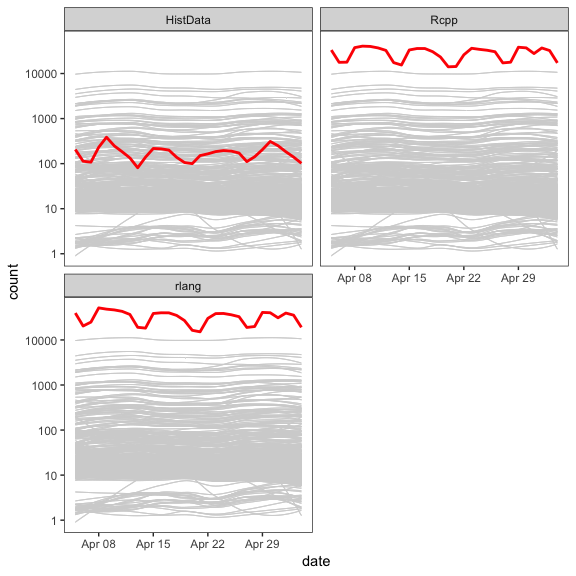
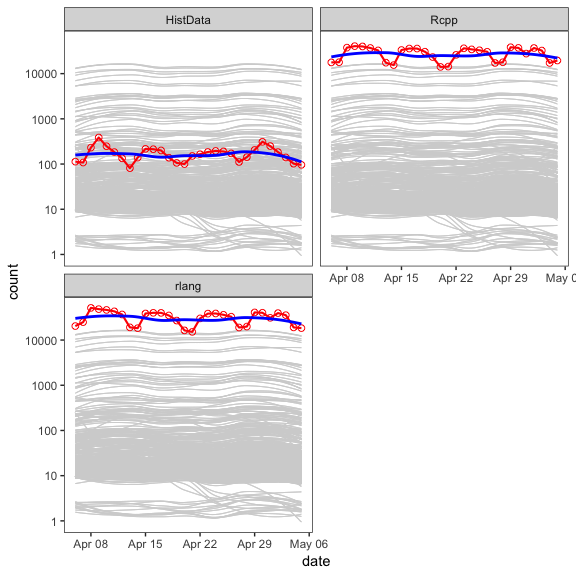
switch from cohort to simple stratified sample in packageRankTime()

diff --git a/README.md b/README.md
@@ -1,7 +1,7 @@
 
 <!-- README.md is generated from README.Rmd. Please edit that file -->
 
-[![GitHub\_Status\_Badge](https://img.shields.io/badge/GitHub-0.0.9046-red.svg)](https://github.com/lindbrook/packageRank/blob/master/NEWS)
+[![GitHub\_Status\_Badge](https://img.shields.io/badge/GitHub-0.0.9047-red.svg)](https://github.com/lindbrook/packageRank/blob/master/NEWS)
 
 ## packageRank: compute and visualize package download counts and percentiles
 
@@ -113,12 +113,12 @@ pkg.rank <- packageRank(package = "HistData", date = "2019-01-01")
 downloads <- pkg.rank$crosstab
 
 downloads[downloads == 51]
-> 
->  dynamicTreeCut        HistData          kimisc  NeuralNetTools 
->              51              51              51              51 
->   OpenStreetMap       pkgKitten plotlyGeoAssets            spls 
->              51              51              51              51 
->        webutils            zoom 
+>
+>  dynamicTreeCut        HistData          kimisc  NeuralNetTools
+>              51              51              51              51
+>   OpenStreetMap       pkgKitten plotlyGeoAssets            spls
+>              51              51              51              51
+>        webutils            zoom
 >              51              51
 ```
 
@@ -192,10 +192,10 @@ plot(packageRankTime(package = "HistData", when = "last-month"),
 <img src="man/figures/README-plot_ts-1.png" style="display: block; margin: auto auto auto 0;" />
 
 The longitudinal view plots the date (x-axis) against the logarithm of a
-package’s downloads (y-axis). In the background, we can see same data,
-plotted in gray, for a cohort of packages defined by a stratified random
-sample of packages.\[2\] This cohort is used to approximate the overall
-temporal pattern of package downloads in the selected time period.
+package’s downloads (y-axis). In the background, we can see the same
+data, plotted in gray, for a stratified random sample of packages.\[2\]
+This sample is used to approximate the temporal pattern of all package
+downloads.
 
 As above, you can pass a vector of packages:
 
@@ -228,6 +228,6 @@ devtools::install_github("lindbrook/packageRank", build_opts = c("--no-resave-da
 1.  Because packages with zero downloads are not recorded in the log,
     there is a censoring problem.
 
-2.  Within each 5% rank percentile bin (e.g., 0 to 5, 5 to 10, etc.), a
-    random sample of 5% of packages is selected and then tracked over
-    time.
+2.  Within each 5% interval of rank percentiles (e.g., 0 to 5, 5 to 10,
+    95 to 100, etc.), a random sample of 5% of packages is selected and
+    tracked over time.
